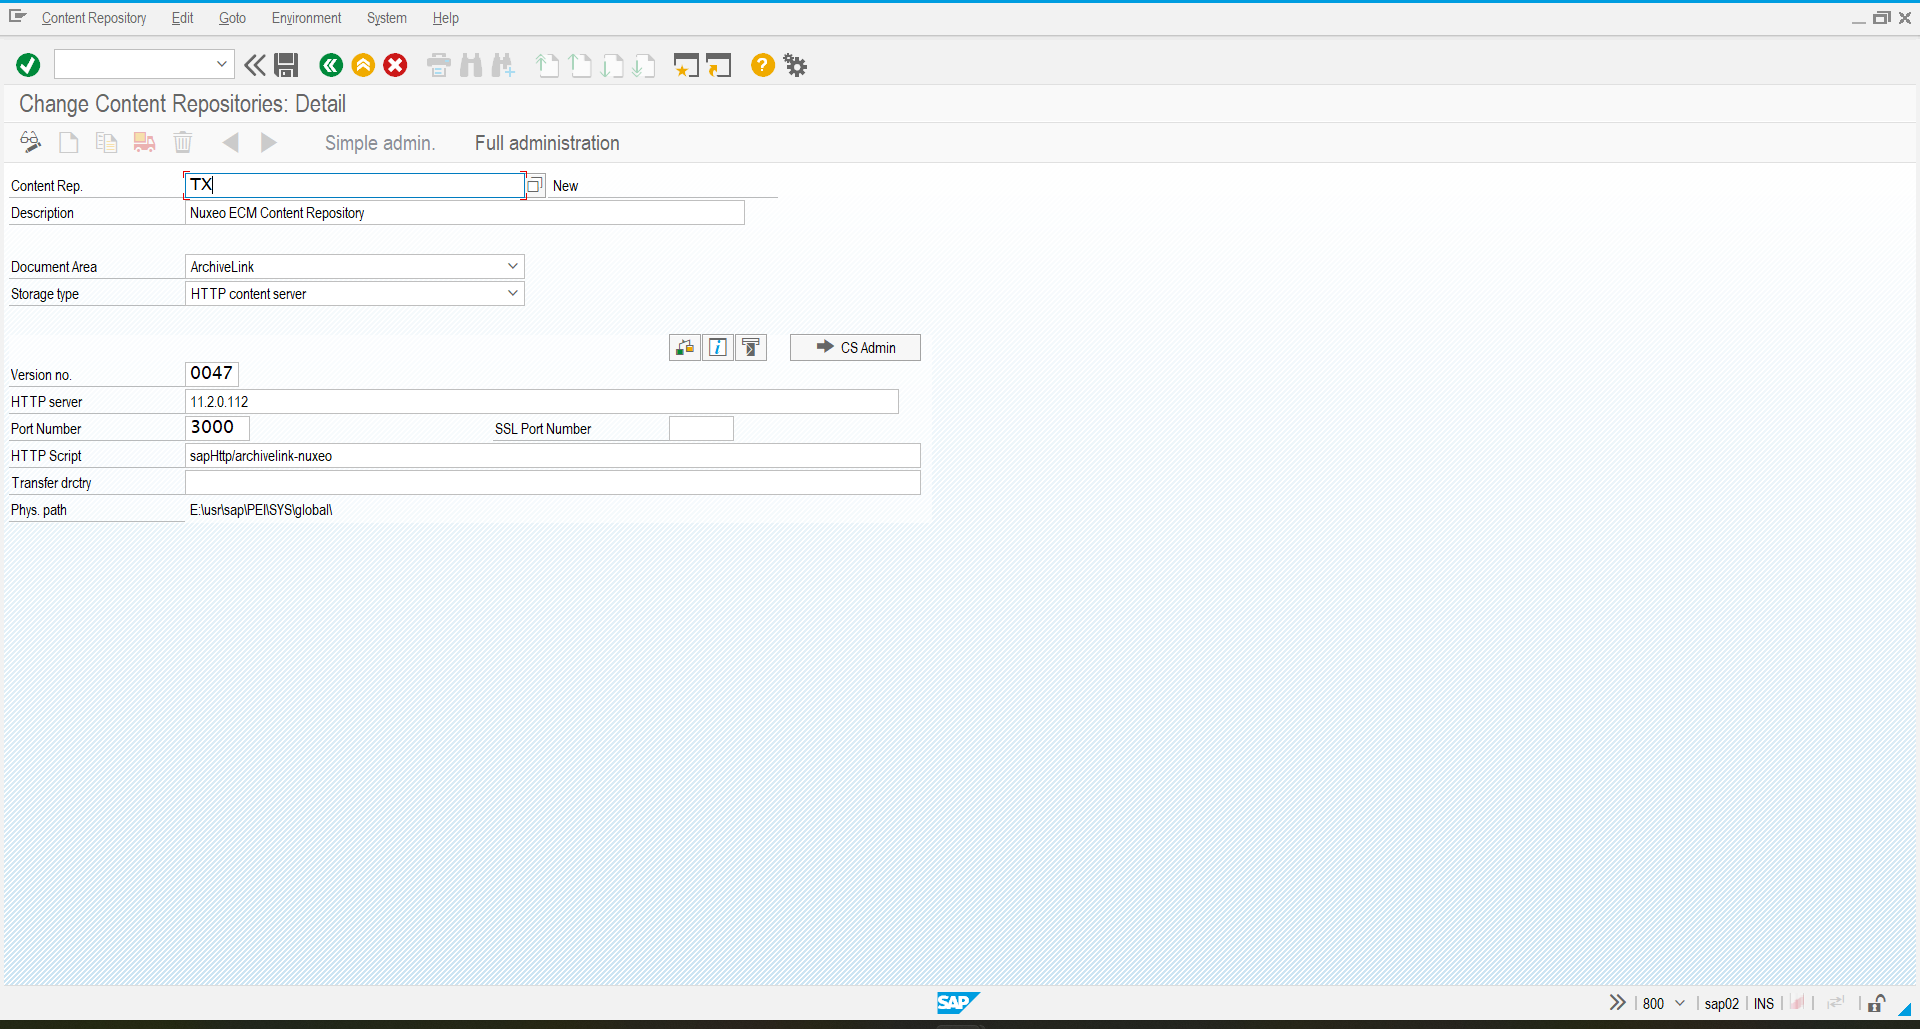
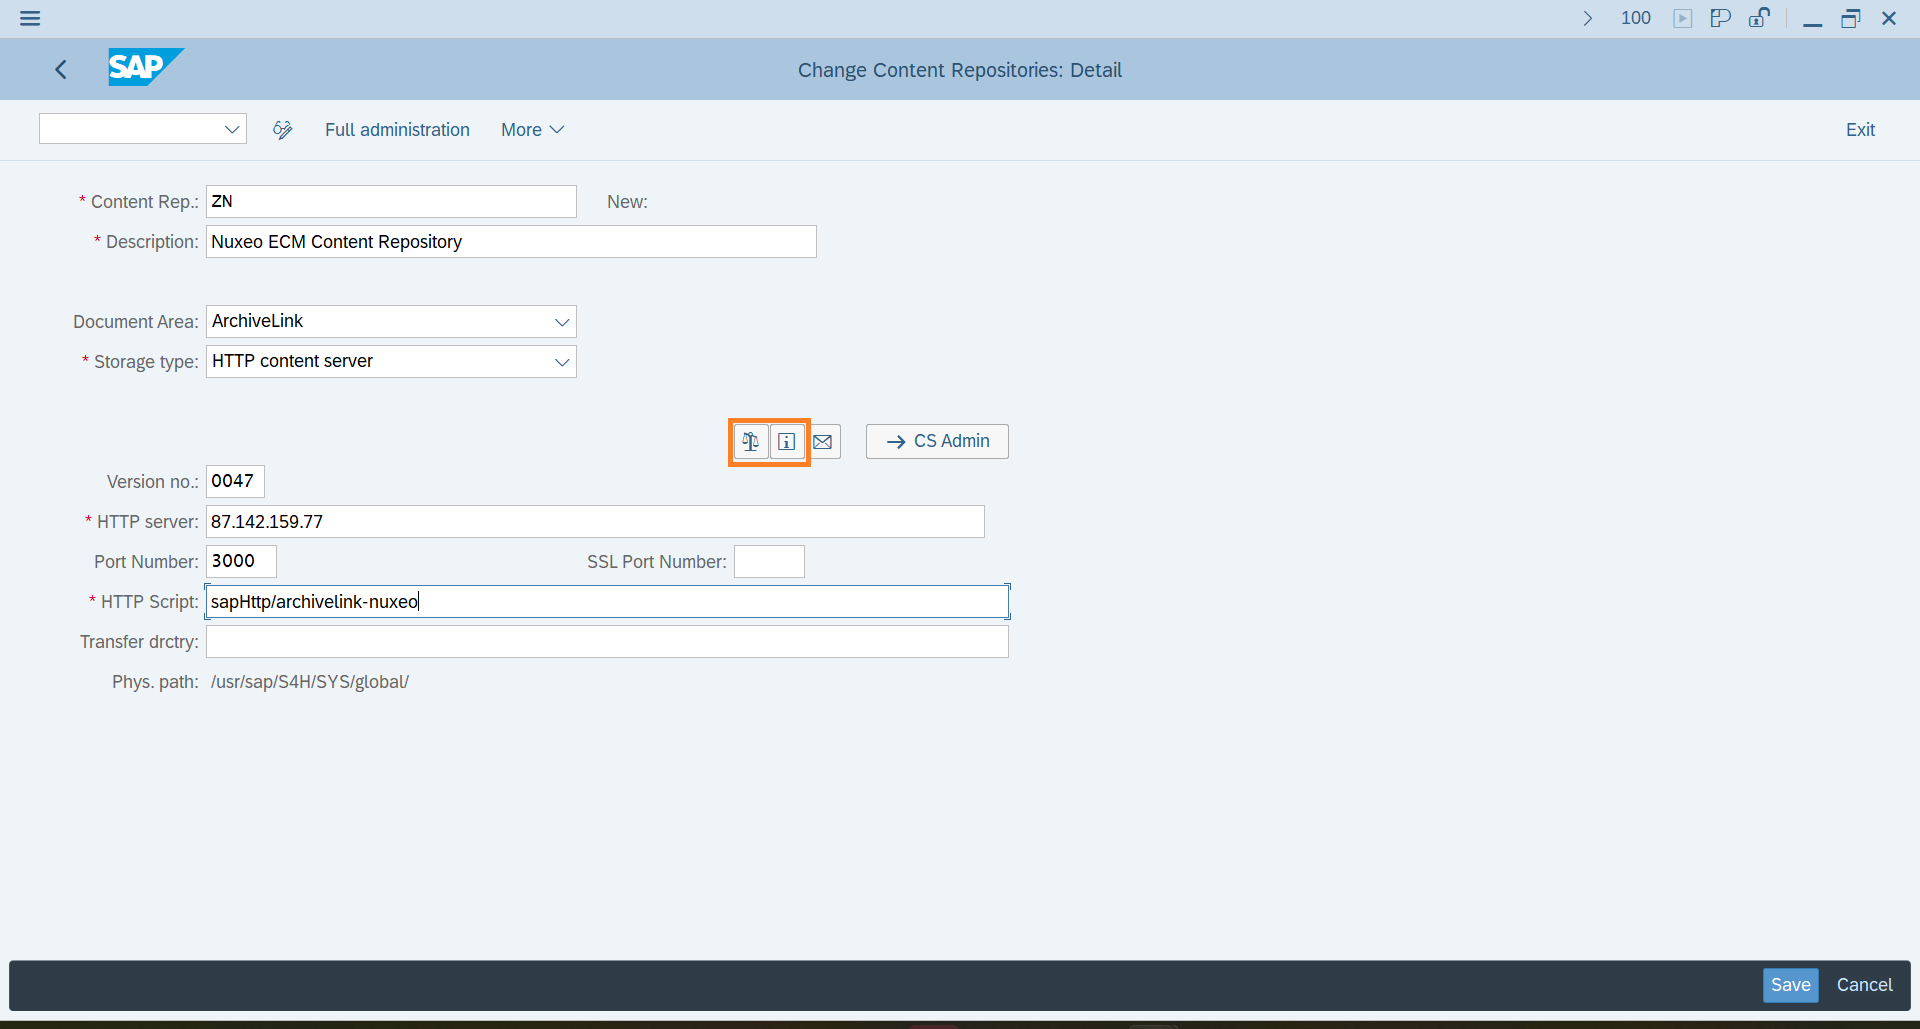
Add configuration content and fix some more path entry issues.

diff --git a/docs/configuration/aqilink/README.md b/docs/configuration/aqilink/README.md
@@ -63,25 +63,121 @@ The below table lists all available parameters for the `storage.yaml` to establi
 | ``partSize`` | No |  Override the default part size of 64MB for multipart uploads.      |  |
 | ``pathStyle`` | No |  Override default access behavior (path) for non AWS endpoints.      | `true` |
 
-## Connect SAP Content Repository via **`aqilink`** with Repository
-Step-by-step guide to customize SAP to connect a repository (such as Nuxeo or Amazon S3) through **`aqilink`** storing documents through ArchiveLink. The section will refer to the above configurations for [SAP Content Repository Connection](#sap-http-content-server-connection) and [Storage Connection](#storage-connections).
+## Step-by-Step: Connect SAP with Nuxeo
+Read this chapter to learn how to connect Nuxeo  via **`aqilink`** as SAP Content Repository. We'll also show the necessary customizing to store a document through the SAP HTTP Content Server using an Invoice (transaction `FB03`) as simple example. 
+Make sure you're familiar with the configuration for [SAP Content Repository Connection](#sap-http-content-server-connection) and [Storage Connection](#storage-connections) before, as this is required for this section.
 
-1) Login to the SAP system as Administrator, or at least with acceess to the following transactions: `OAC0`, `OAC2`, `OAC3`, `OAM1`.
-2) Open transaction `OAC0` to create a new connection to a content repository. Now switch to Edit mode and hit `F5`.  
+### Create SAP Content Repository
+Follow these steps to create a new SAP Content Repository connected to **`aqilink`**.
+
+> Use a SAP dialog user with Administration permission.
+
+1) Login to the SAP system and execute the following transaction: `OAC0`. It will display a list of all available SAP Content Repositories in the SAP system.
+2) To create a new SAP Content Repository switch to *Edit* mode (`CTRL`+`F4` ), then press `F5`.  
 3) Now create a new entry using the following values:
 
    | Property      | Description | Example |
    | ----------- | ----------- | ----------- | 
-   | Content Rep. | Unique name for the repository in SAP.  |  `Z1`, `TX` |
-   | Description | A description to identify the repository easily. Visible only to SAP admin in the SAP Content Repository overview.  |  `Nuxeo ECM Content Repository` |
-   | Document Area | Select `ArchiveLink` from the dropdown list to use ArchiveLink and Attachment functionality. Select `Document Management System` to use SAP DMS (Document Info Records).  |  `ArchiveLink`, `DMS` |
-   | Storage Type | Always select `HTTP content server` from the list. |  `HTTP content server` |
-   | Version no. | Specify the SAP Content Server version. Supported are `0045`, `0046` and `0047` (recommended for all SAP S/4HANA systems) . |  `0047` |
-   | HTTP server | Specify the server, IP address or hostname, where `aqilink` is running. |  `11.2.0.112` |
-   | Port Number | Specify the port on the `aqilink` server above where the app is running. Default: `3000`. If necessary change the port mapping based on the used orchestration tool. |  `3000` |
-   | HTTP Script | The main entry point of the `aqilink` app. It always starts with the prefix **`sapHttp`** followed by the `name` property in the `sapHttp.yaml`. Refer to [SAP Content Repository Connection](#sap-http-content-server-connection) above. |  `sapHttp/archivelink-nuxeo` |
+   | **Content Rep.** | Unique name for the repository in SAP.  |  `ZN`, `T1` |
+   | **Description** | A description to identify the repository easily. Visible only to SAP admin in the SAP Content Repository overview.  |  `Nuxeo ECM Content Repository` |
+   | **Document Area** | Select `ArchiveLink` from the dropdown list to use ArchiveLink and Attachment functionality. Select `Document Management System` to use SAP DMS (Document Info Records).  |  `ArchiveLink`, `DMS` |
+   | **Storage Type** | Always select `HTTP content server` from the list. |  `HTTP content server` |
+   | **Version no.** | Specify the SAP Content Server version. Supported are `0045`, `0046` and `0047` (recommended for all SAP S/4HANA systems) . |  `0047` |
+   | **HTTP server** | Specify the server, IP address or hostname, where `aqilink` is running. |  `11.2.0.112` |
+   | **Port Number** | Specify the port on the `aqilink` server above where the app is running. Default: `3000`. If necessary change the port mapping based on the used orchestration tool. |  `3000` |
+   | **HTTP Script** | The main entry point of the `aqilink` app. It always starts with the prefix **`sapHttp`** followed by an existing `name` property in the `sapHttp.yaml`. Refer to [SAP Content Repository Connection](#sap-http-content-server-connection) above. |  `sapHttp/archivelink-nuxeo` |
+   | **Transfer drctry** | Some ArchiveLink scenarios requires files to be created in a transfer directory (on SAP side) before sending it to the content server. Edit this, if the default value does not match your corporate standard. | `/tmp/`|
 
+   This is how it looks like in the SAP GUI:
    ![SAP Customizing: OAC0](../../_media/sap_customizing/0001_oac0_create.png)
 
-4) Save the newly created repository.
-5) Test the connection. 
+4) Save the newly created repository (`CTRL`+`S`).
+5) Test the connection using either the *Test Connection* or *Status information* icon (refer to the `Orange` highlighted buttons in the image above). Now, you should receive a message, that the content repository does not exists.
+
+   ![SAP Customizing: OAC0 Test Connection](../../_media/sap_customizing/0002_oac0_create_test_connection.png)
+
+   > If you receive any other message than the above one, make sure the connection to the `aqilink` server is working. In case of a message similar like *`Payment required`* make sure to have entered the (valid) [license key](/installation/app-configuration?id=enter-license-key). 
+
+6) The basic HTTP connection is working now.
+
+### Create Content Repository in Nuxeo
+The repository must be created on the content server as well. 
+
+1) Click on icon *--> CS Admin* (*C*ontent *S*erver *Admin*istration) in the middle of the screen, besides the *Test connection* icon. Refer to image in step 3) of the previous section.
+2) Create the repository in Nuxeo using the *Create repository* icon in the *Create* section (highlighted in `Orange` below). All settings in this screen can be left with their defaults.
+
+   ![SAP Customizing: OAC0 CS Admin Create Repo](../../_media/sap_customizing/0003_oac0_cs_admin_repo.png)
+
+3) You should be redirected to the *Details* section where some basic information from the `aqilink` server shows up.
+   
+   ![SAP Customizing: OAC0 CS Admin Repo created](../../_media/sap_customizing/0004_oac0_cs_admin_repo_created.png)
+
+4) Stay in this screen and continue with the next section.
+
+### Secure Connection using Certificate
+Secure the connection between SAP and Nuxeo using a certificate that will be stored in Nuxeo to allow only authorized requests from the SAP Content Repository.
+
+> We strongly recommend securing the connection between SAP and Nuxeo at all times.
+
+1) Click on section *Certificates*.
+2) Send the certificate by clicking on the envelope icon.
+   
+   ![SAP Customizing: OAC0 CS Admin Certificate](../../_media/sap_customizing/0005_oac0_cs_admin_certificate.png)
+
+3) Once the certificate was sent, it appears in the *Certificate Properties* table. 
+   **Note the checkbox!** It is not checked, which means the certificate is not yet active.
+
+   ![SAP Customizing: OAC0 CS Admin Certificate Sent](../../_media/sap_customizing/0005_oac0_cs_admin_certificate_available.png)
+
+4) Enable security by activating the certificate in Nuxeo.
+
+   > From the SAP HTTP-Content Server protocol specification, the certificate can only be activated from the content repository side. This is an additional security step. Therefore, no additional action is required in SAP. To proceed with the activation login to Nuxeo.
+
+   4.1 Login to Nuxeo as with administrator privileges.
+
+   4.2 Navigate to the customized `aqilink` administration folder which holds all the repository files and certificates from the SAP system. Refer to value of setting `adminPath` in the related [Storage Connections](#hyland-nuxeo-repository) chapter.
+
+   > Underneath this `adminPath` you'll find a folder named with the name you entered as [SAP HTTP-Content Server Connection](#sap-http-content-server-connection) in value for `HTTP Script` during the repository creation above. The folder is also concatenated by the name of the content repository itself.
+   
+   ![Nuxeo Administration: Activate Certificate](../../_media/sap_customizing/0007_nuxeo_adminpath.png)
+
+   4.3 The certificate has the extension **`.pem`**. To activate it, edit the properties and tick the checkbox for *Activated* and save the document. 
+   
+   ![Nuxeo Administration: Certificate activated](../../_media/sap_customizing/0008_nuxeo_certificate_activated.png)
+
+   4.4 Crosscheck whether the connection is now secure. Do it in SAP. 
+
+5) Go back to SAP and navigate to the recently created SAP Content Repository again. Open the *--> CS Admin* again and click on the *Certificates* section.
+   If the SAP GUI with the screen is still open in the background, just click the *Refresh* icon. 
+
+6) Now, the checkbox in front of the certificate in the *Certificate Properties* table is enabled.
+
+   ![SAP Customizing: Certificate active](../../_media/sap_customizing/0009_oac0_certificate_active.png)
+
+7) With that, the SAP Content Repository is successfully connected with Nuxeo. You can proceed with a functional test.
+
+### Functional Test
+This section describes how `aqilink`, and therefore the ArchiveLink interface, can be tested. The testing requires some additional SAP fundamentals. Also, it's based on the same procedure used by SAP to certify the `aqilink` ArchiveLink interface.
+
+> In order to successfully complete these tests, all the steps above should have been completed.
+
+1) Login to SAP and open the *ABAP Editor* using transaction `SE38`.
+2) Enter `RSCMST` in the Program field and execute it by either click *Execute* in the toolbar or press `F8` to execute it.
+   
+   ![SAP Functional Test: RSCMST](../../_media/sap_customizing/0010_se38_rscmst.png)
+
+3) In this screen enter the recently created SAP Content Repository, connected to Nuxeo, in the Repository field. Again, click *Execute* in the toolbar or press `F8`.
+   
+   ![SAP Functional Test: RSCMST for Repo](../../_media/sap_customizing/0011_se38_execute_repository.png)
+
+4) Now, all related sub-reports are listed that could be executed against the repository.
+   
+5) The most important report is `RSCMSTH0`, which will test the basic communication like `create`, `info`, `search`, `update` or even `delete` commands via HTTP against the repository. Use the *Execute* icon for the report.
+
+   ![SAP Functional Test: RSCMST Sub-reports](../../_media/sap_customizing/0012_se38_execute_rscmsth0.png)
+
+6) **Optional:** To test additional functionality of the HTTP interface use the available test reports `RSCMSTH1`, `RSCMSTH2` and `RSCMSTH3`.
+
+   ![SAP Functional Test: RSCMST Sub-reports 123](../../_media/sap_customizing/0013_se38_execute_rscmsth123.png)
+
+   > There is a known issue in the `RSCMSTH2` report in SAP BASIS components 740 to 752. If this report returns with a lot of errors regarding document protection like `DOC_P[rc]`, refer to the following SAP OSS notes: 2371386, 2198970. Skip this report unless the notes are implemented.

diff --git a/docs/installation/app-configuration.md b/docs/installation/app-configuration.md
@@ -8,7 +8,6 @@ The license key must be stored in property `license` of the file. If there is no
 license: <ENTER-LICENSE-KEY>
 ```
 
-
 ## Queue Monitor
 To provide monitoring of the [Tasks](../configuration/aqishare/tasks.md), the [Bull Queue](https://optimalbits.github.io/bull/) from OptimalBits is used. This queue should only be enabled for debugging, therefore, by default the Bull Queue monitor is disabled. The related property in the `app.yaml` is `queueMonitorEnabled`.
 
@@ -32,7 +31,7 @@ Here are just some most important properties to drive the Redis behaviour:
 | ``password`` | No | Password to login to the databse.   |  
 
 ## Example Configuration
-An example configuration with all available properties for the `app.yaml`.
+Below is an example configuration with the most relevant properties to be present in the `app.yaml`.
 
 ```
 license: 12345-67890-09876-54321
@@ -40,5 +39,4 @@ queueMonitorEnabled: true
 redis:
   host: redis
   port: 6379
-
 ```

diff --git a/docs/configuration/aqilink/_navbar.md b/docs/configuration/aqilink/_navbar.md
@@ -1,10 +1,9 @@
 <!-- _navbar.md -->
 
 * aqilink
-  * [Installation](aqilink/installation.md)
-  * [Get a License](aqilink/license.md)
-
+  * [Installation](/installation/)
+  * [Get a License](https://try.aqipro.com)
   
 * aqishare
-  * [SAP Connections](../configuration/aqishare/sap-connection.md)
-  * [Tasks](../configuration/aqishare/tasks.md)
+  * [SAP Connections](/configuration/aqishare/sap-connection.md)
+  * [Tasks](/configuration/aqishare/tasks.md)

diff --git a/docs/configuration/aqishare/_navbar.md b/docs/configuration/aqishare/_navbar.md
@@ -1,9 +1,9 @@
 <!-- _navbar.md -->
 
 * aqilink
-  * [Installation](aqilink/installation.md)
-  * [Get a License](aqilink/license.md)
+  * [Installation](/installation/)
+  * [Get a License](https://try.aqipro.com)
   
 * aqishare
-  * [SAP Connections](../configuration/aqishare/sap-connection.md)
-  * [Tasks](../configuration/aqishare/tasks.md)
+  * [SAP Connections](/configuration/aqishare/sap-connection.md)
+  * [Tasks](/configuration/aqishare/tasks.md)

diff --git a/docs/installation/_navbar.md b/docs/installation/_navbar.md
@@ -1,8 +1,8 @@
 <!-- _navbar.md -->
 
 * Installation
-  * [Installation](../installation/)
-  * [Get a License](../installation/license.md)  
+  * [Installation](/installation/)
+  * [Get a License](https://try.aqipro.com)  
 * Configuration
-  * [aqilink](../configuration/aqilink/)
-  * [aqishare](../configuration/aqishare/)
+  * [aqilink](/configuration/aqilink/)
+  * [aqishare](/configuration/aqishare/)

diff --git a/docs/configuration/_navbar.md b/docs/configuration/_navbar.md
@@ -1,8 +1,8 @@
 <!-- _navbar.md -->
 
 * Installation
-  * [Installation](../installation/)
-  * [Get a License](../installation/license.md)  
+  * [Installation](/installation/)
+  * [Get a License](https://try.aqipro.com)
 * Configuration
-  * [aqilink](../configuration/aqilink/)
-  * [aqishare](../configuration/aqishare/)
+  * [aqilink](/configuration/aqilink/)
+  * [aqishare](/configuration/aqishare/)

diff --git a/docs/_glossary.md b/docs/_glossary.md
@@ -6,24 +6,3 @@ SAP ERP Central Component
 
 ##### ERP
 Enterprise Resource Planning
-
-##### Example114
-Happy coding.
-
-##### Example115
-Happy coding.
-
-##### Example116
-Happy coding.
-
-##### Example117
-Happy coding.
-
-##### Example118
-Happy coding.
-
-##### Example119
-Happy coding.
-
-##### Example120
-Happy coding.

diff --git a/docs/_sidebar.md b/docs/_sidebar.md
@@ -6,5 +6,5 @@
   * [aqilink](configuration/aqilink/ "SAP Certified storate connection")
   * [aqishare](configuration/aqishare/ "Low Code data-exchange between SAP and content repositories")
 * [Reference](reference/)
-* [FAQ](faq.md)
+* [FAQ](faq.md "Frequently Asked Questions")
 * [Glossary](_glossary.md)
